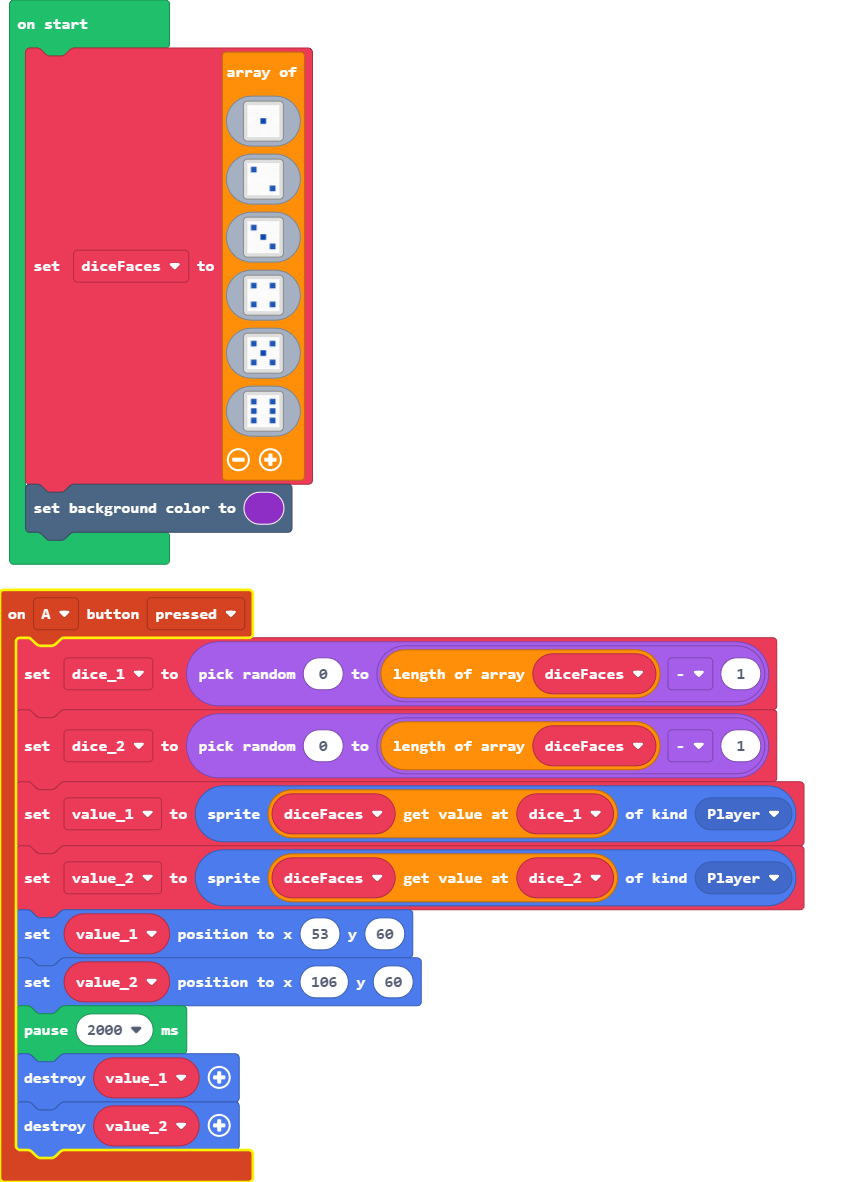
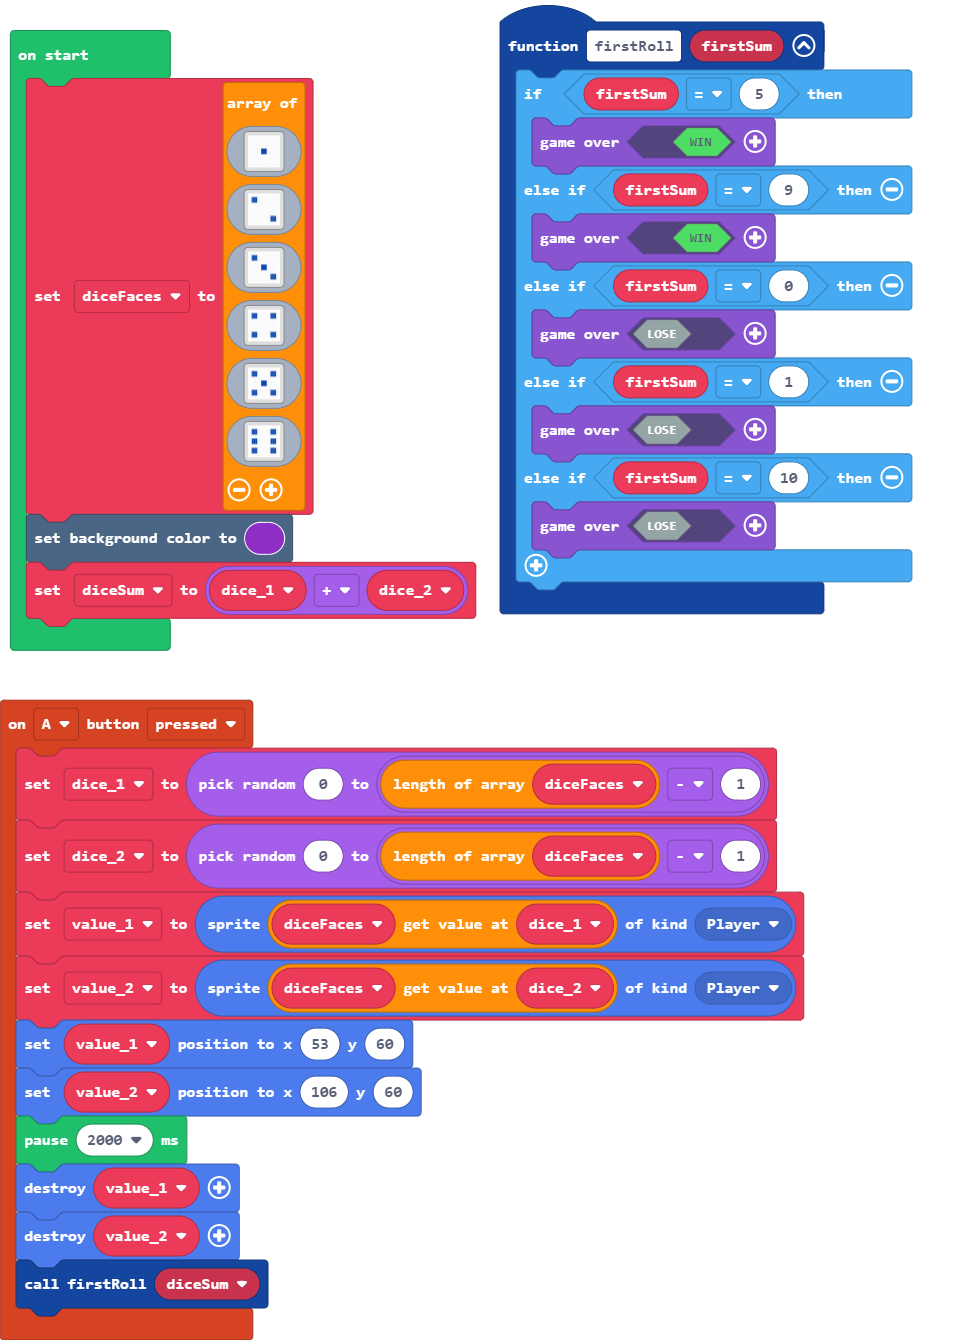
Update main.blocks, main.ts

diff --git a/main.ts b/main.ts
@@ -1,3 +1,16 @@
+function firstRoll (firstSum: number) {
+    if (firstSum == 5) {
+        game.over(true)
+    } else if (firstSum == 9) {
+        game.over(true)
+    } else if (firstSum == 0) {
+        game.over(false)
+    } else if (firstSum == 1) {
+        game.over(false)
+    } else if (firstSum == 10) {
+        game.over(false)
+    }
+}
 controller.A.onEvent(ControllerButtonEvent.Pressed, function () {
     dice_1 = randint(0, diceFaces.length - 1)
     dice_2 = randint(0, diceFaces.length - 1)
@@ -8,6 +21,7 @@ controller.A.onEvent(ControllerButtonEvent.Pressed, function () {
     pause(2000)
     value_1.destroy()
     value_2.destroy()
+    firstRoll(0)
 })
 let value_2: Sprite = null
 let value_1: Sprite = null
@@ -131,3 +145,4 @@ img`
     `
 ]
 scene.setBackgroundColor(10)
+let diceSum = dice_1 + dice_2
